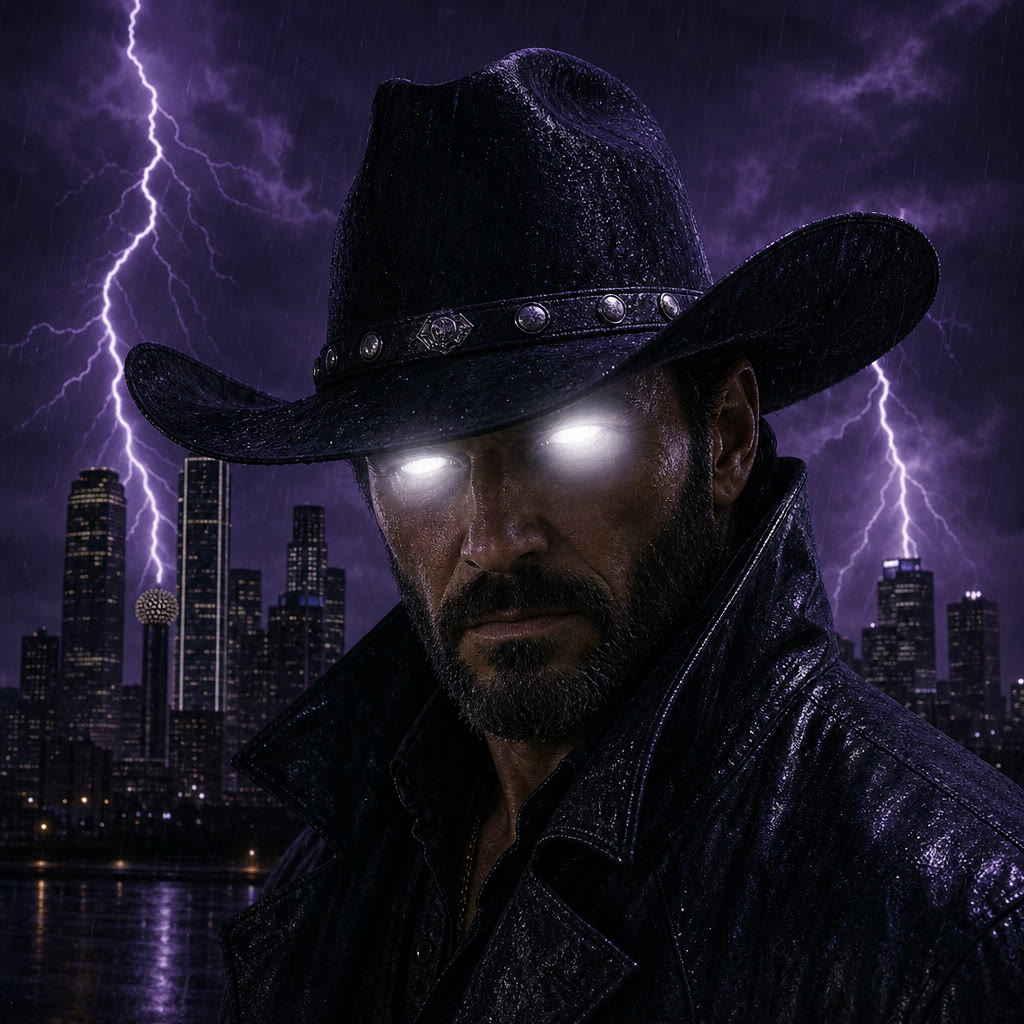
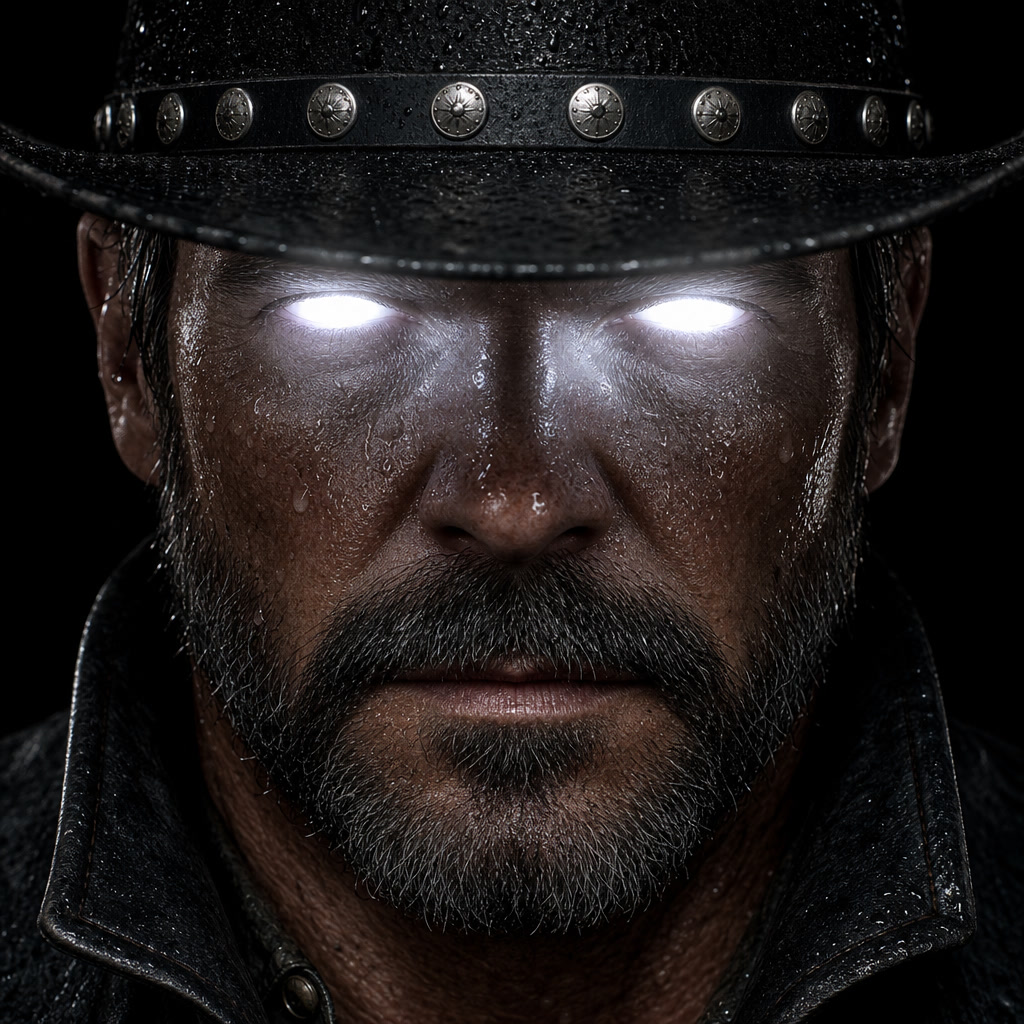
Use the face-only cowboy as Raijin’s chair.
WAIT is the signed close-up (white eyes). UP/DOWN tint that same face green/red. Dallas stays on the room plate.

diff --git a/frontend/static/roundtable.js b/frontend/static/roundtable.js
@@ -3604,11 +3604,11 @@ if (window.applySettingsSnapshot && !window.applySettingsSnapshot._real) {
     const cols = raijinEyeColors(dir);
     /* WAIT keeps the signed white storm glow. Do not turn WAIT gold. */
     if (cols.mode === "wait") return cols;
-    /* Soft feather on the glowing sockets only. Do not recolor lightning, hat, or coat. */
-    const y = cy - pr * 0.06;
-    const dx = pr * 0.155;
-    const rx = pr * 0.10;
-    const ry = pr * 0.06;
+    /* Soft feather on the glowing sockets only. Do not recolor hat or coat. */
+    const y = cy - pr * 0.10;
+    const dx = pr * 0.16;
+    const rx = pr * 0.09;
+    const ry = pr * 0.055;
     ctx.save();
     ctx.globalCompositeOperation = "screen";
     [["l", -dx], ["r", dx]].forEach(function (pair) {

diff --git a/frontend/static/wire.js b/frontend/static/wire.js
@@ -2,6 +2,12 @@
 /* Entry shape: { id, at, title, why } — newest first. at is ISO-8601 America/Chicago. */
 window.COUNCIL_WIRE = [
   {
+    "id": "2026-08-15-raijin-cowboy-face",
+    "at": "2026-08-15T23:50:00-05:00",
+    "title": "Raijin cowboy is face-only now",
+    "why": "Cowboy face-only WAIT + Ares-style green/red eye tint; Dallas lives on the room plate."
+  },
+  {
     "id": "2026-08-15-satoshi-face",
     "at": "2026-08-15T23:45:00-05:00",
     "title": "Satoshi chair face swap",

diff --git a/frontend/static/style.css b/frontend/static/style.css
@@ -7926,9 +7926,9 @@ body.front-chair-off.phone-floor .floor-raijin { display: none !important; }
 .front-chair .front-mark { position: relative; }
 .front-chair .raijin-eye {
   position: absolute;
-  top: 44%;
-  width: 12%;
-  height: 8%;
+  top: 40%;
+  width: 11%;
+  height: 7%;
   border-radius: 50%;
   background: radial-gradient(circle, var(--raijin-eye-a, #FFFFFF) 0%, transparent 70%);
   mix-blend-mode: screen;

diff --git a/backend/tests/test_desk_front.py b/backend/tests/test_desk_front.py
@@ -420,9 +420,10 @@ class FrontWeatherTests(unittest.TestCase):
         self.assertNotEqual((static / "raijin-up.jpg").read_bytes(), (static / "chair-up.jpg").read_bytes())
         self.assertNotEqual((static / "raijin-down.jpg").read_bytes(), (static / "chair-down.jpg").read_bytes())
         self.assertNotEqual((static / "raijin-wait.jpg").read_bytes(), (static / "vitalik-wait.jpg").read_bytes())
-        # One signed WAIT cowboy. UP/DOWN may be the same file; canvas tint does the eyes.
-        self.assertEqual((static / "raijin-up.jpg").read_bytes(), (static / "raijin-wait.jpg").read_bytes())
-        self.assertEqual((static / "raijin-down.jpg").read_bytes(), (static / "raijin-wait.jpg").read_bytes())
+        # Same cowboy face. WAIT white; UP/DOWN are that face with tinted eyes.
+        self.assertNotEqual((static / "raijin-up.jpg").read_bytes(), (static / "raijin-wait.jpg").read_bytes())
+        self.assertNotEqual((static / "raijin-down.jpg").read_bytes(), (static / "raijin-wait.jpg").read_bytes())
+        self.assertNotEqual((static / "raijin-up.jpg").read_bytes(), (static / "raijin-down.jpg").read_bytes())
         self.assertIn("const raijinImages", JS)
         self.assertIn("function raijinPortraitFor(dir)", JS)
         self.assertIn("function vitalikPortraitFor(dir)", JS)

diff --git a/backend/tests/test_desk_wire.py b/backend/tests/test_desk_wire.py
@@ -102,6 +102,9 @@ class WireLogTests(unittest.TestCase):
         self.assertNotIn("KX", blob)
         self.assertNotIn("ZT ·", blob)
         self.assertNotIn("Changelog", blob)
+        self.assertIn("2026-08-15-raijin-cowboy-face", blob)
+        self.assertIn("Raijin cowboy is face-only now", blob)
+        self.assertIn("Cowboy face-only WAIT + Ares-style green/red eye tint; Dallas lives on the room plate.", blob)
         self.assertIn("2026-08-15-satoshi-face", blob)
         self.assertIn("Satoshi chair face swap", blob)
         self.assertIn("UP green / DOWN red / HOLD amber", blob)
